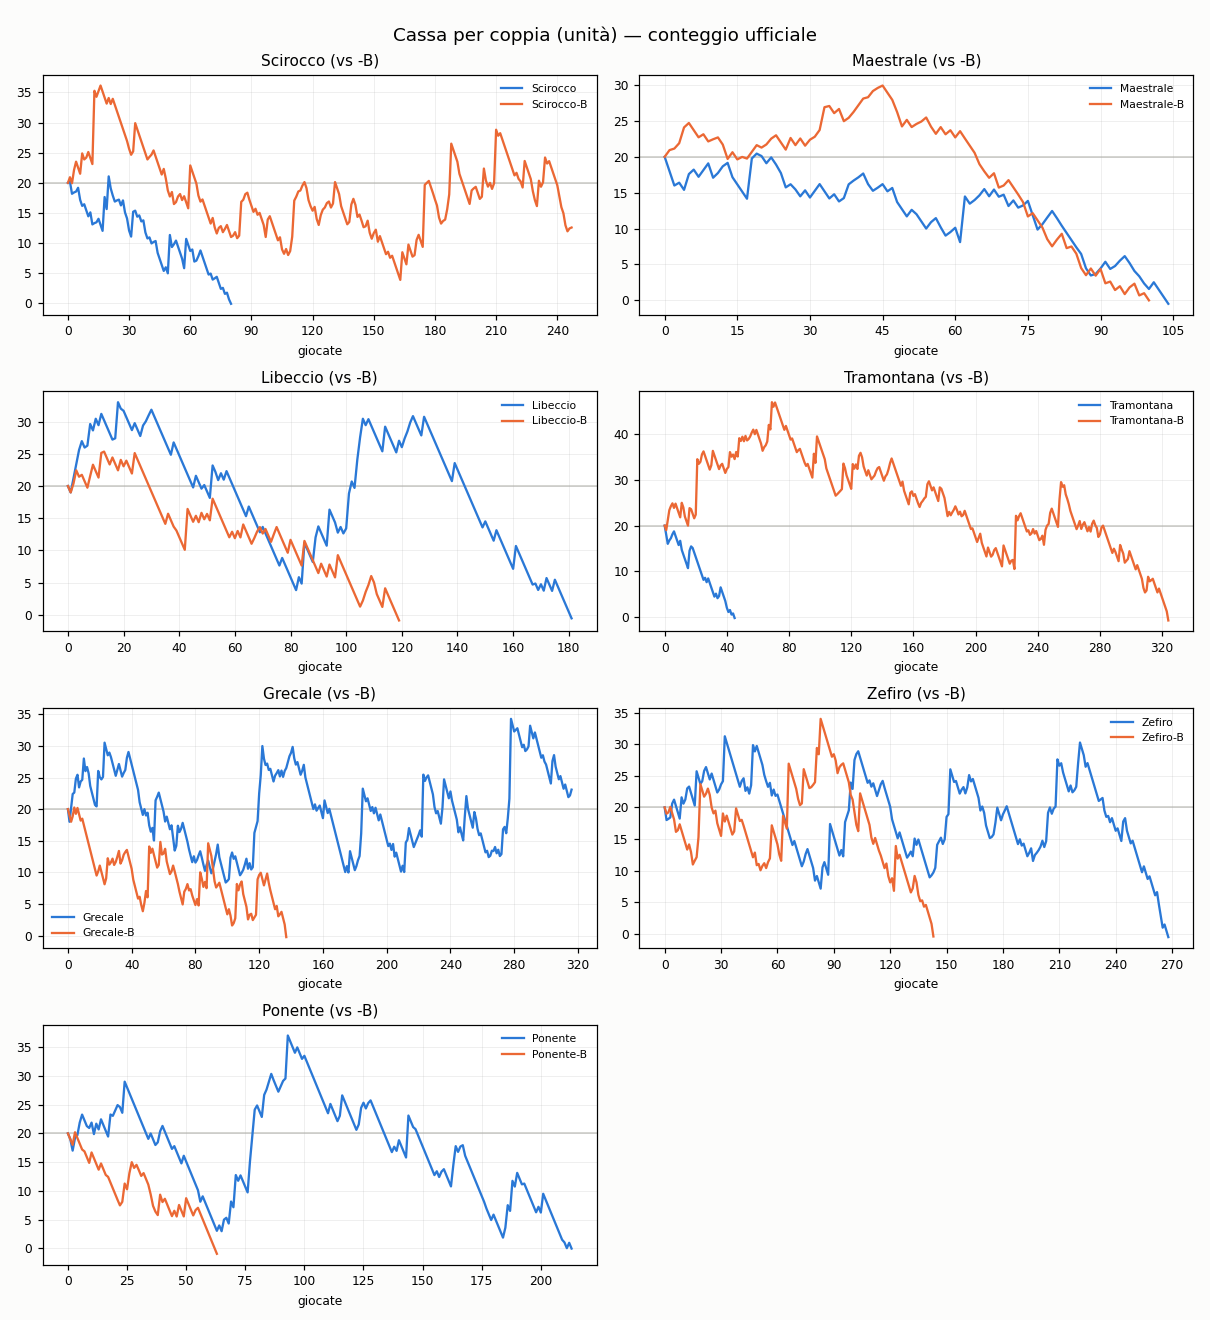
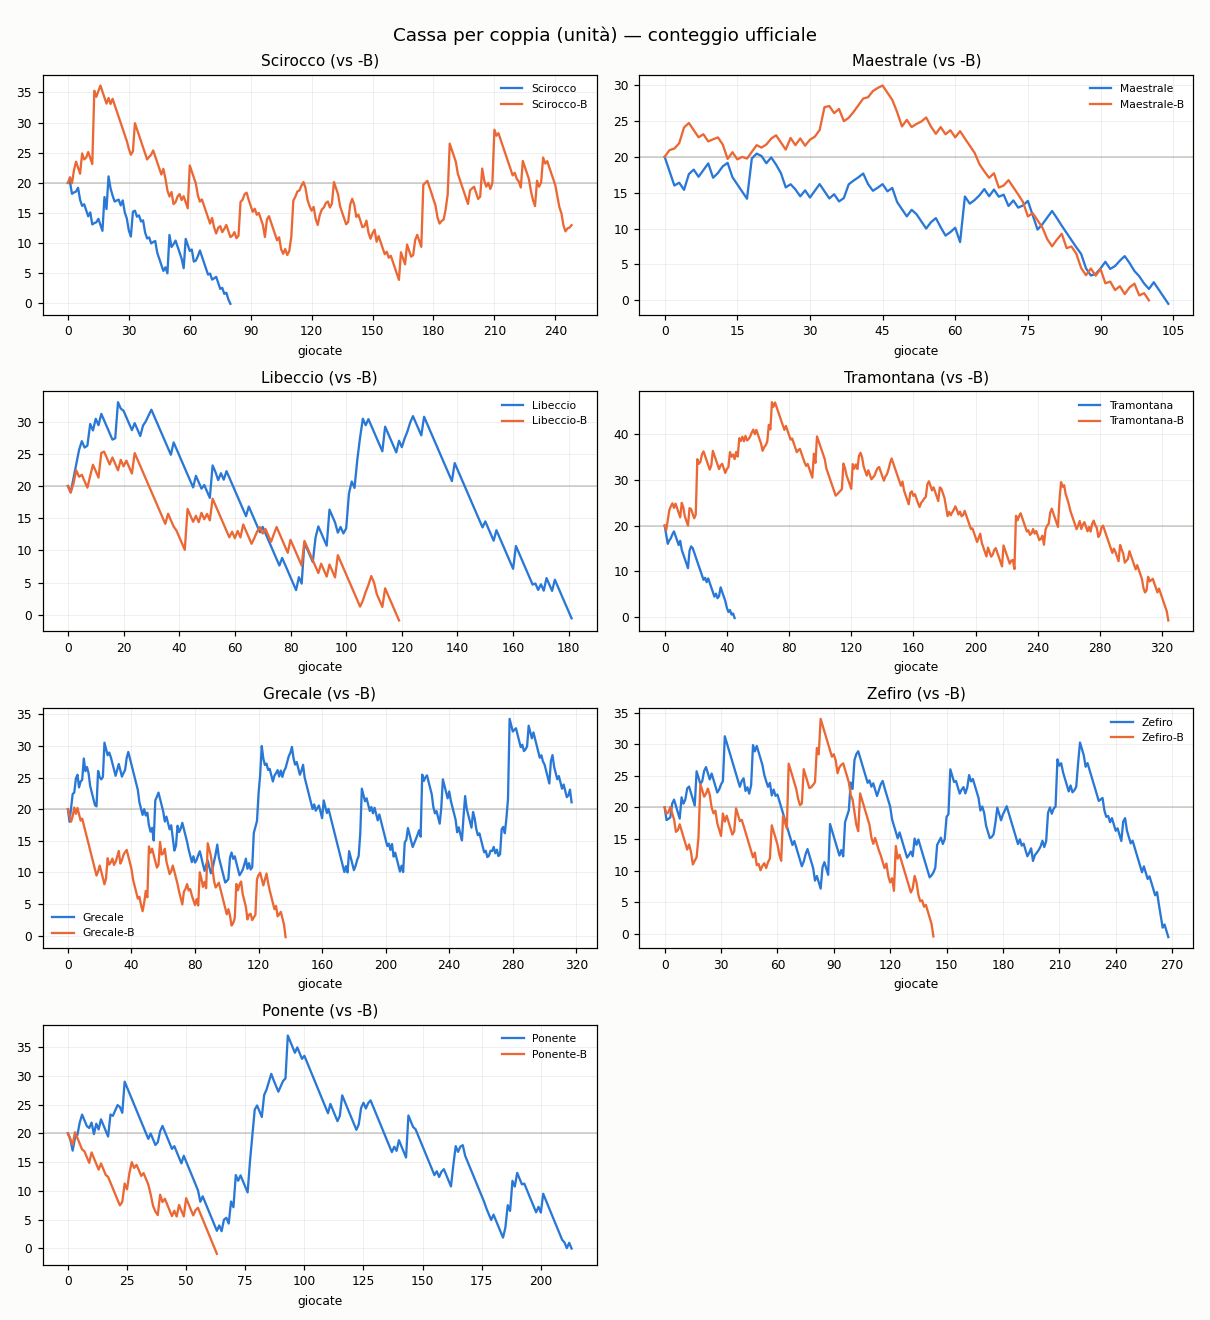
aggiornamento 2026-07-27 17:06 UTC

diff --git a/README.md b/README.md
@@ -37,9 +37,9 @@ scala in unità). Non indichiamo quale.
 
 ## Grafici
 
-![Coppie: dati completi vs ridotti](https://raw.githubusercontent.com/Kitem19/ippica-track-record/main/charts/equity_pairs.png?v=6897e54f)
+![Coppie: dati completi vs ridotti](https://raw.githubusercontent.com/Kitem19/ippica-track-record/main/charts/equity_pairs.png?v=344a78ff)
 
-![Delta per coppia](https://raw.githubusercontent.com/Kitem19/ippica-track-record/main/charts/coppie_delta.png?v=281647e3)
+![Delta per coppia](https://raw.githubusercontent.com/Kitem19/ippica-track-record/main/charts/coppie_delta.png?v=e621c618)
 
 ### Come leggere i grafici
 
@@ -56,11 +56,11 @@ scala in unità). Non indichiamo quale.
 
 _Poche giornate: numeri ancora rumorosi, si conclude a fine fase (31/7)._
 
-- **Scirocco**: dati ridotti avanti di 12,7u — qui gli extra non aiutano
+- **Scirocco**: dati ridotti avanti di 13,0u — qui gli extra non aiutano
 - **Maestrale**: in sostanziale pareggio — troppo presto per dire
 - **Libeccio**: in sostanziale pareggio — troppo presto per dire
 - **Tramontana**: in sostanziale pareggio — troppo presto per dire
-- **Grecale**: dati completi avanti di 23,3u
+- **Grecale**: dati completi avanti di 21,3u
 - **Zefiro**: in sostanziale pareggio — troppo presto per dire
 - **Ponente**: in sostanziale pareggio — troppo presto per dire
 
@@ -68,22 +68,22 @@ _Poche giornate: numeri ancora rumorosi, si conclude a fine fase (31/7)._
 
 | Sistema | Cassa (u) | P/L (u) | Selezioni | Escluse | Stato |
 |---|---|---|---|---|---|
-| Grecale | 23,1 | +3,1 | 316 | 4 | 🟢 |
-| Scirocco-B | 12,6 | -7,4 | 247 | 0 | 🟢 |
-| Maestrale-B | 0,0 | -20,0 | 100 | 248 | 🛑 |
-| Ponente | 0,0 | -20,0 | 213 | 34 | 🛑 |
-| Scirocco | 0,0 | -20,1 | 80 | 273 | 🛑 |
-| Grecale-B | 0,0 | -20,2 | 137 | 181 | 🛑 |
-| Tramontana | 0,0 | -20,3 | 45 | 314 | 🛑 |
-| Zefiro-B | 0,0 | -20,5 | 143 | 78 | 🛑 |
-| Maestrale | 0,0 | -20,5 | 104 | 267 | 🛑 |
-| Zefiro | 0,0 | -20,6 | 268 | 11 | 🛑 |
-| Libeccio | 0,0 | -20,6 | 181 | 175 | 🛑 |
-| Tramontana-B | 0,0 | -20,8 | 324 | 24 | 🛑 |
-| Libeccio-B | 0,0 | -20,9 | 119 | 189 | 🛑 |
-| Ponente-B | 0,0 | -21,0 | 63 | 93 | 🛑 |
+| Grecale | 21,1 | +1,1 | 317 | 4 | 🟢 |
+| Scirocco-B | 13,0 | -7,0 | 248 | 0 | 🟢 |
+| Maestrale-B | 0,0 | -20,0 | 100 | 249 | 🛑 |
+| Ponente | 0,0 | -20,0 | 213 | 35 | 🛑 |
+| Scirocco | 0,0 | -20,1 | 80 | 274 | 🛑 |
+| Grecale-B | 0,0 | -20,2 | 137 | 182 | 🛑 |
+| Tramontana | 0,0 | -20,3 | 45 | 315 | 🛑 |
+| Zefiro-B | 0,0 | -20,5 | 143 | 79 | 🛑 |
+| Maestrale | 0,0 | -20,5 | 104 | 268 | 🛑 |
+| Zefiro | 0,0 | -20,6 | 268 | 12 | 🛑 |
+| Libeccio | 0,0 | -20,6 | 181 | 176 | 🛑 |
+| Tramontana-B | 0,0 | -20,8 | 324 | 25 | 🛑 |
+| Libeccio-B | 0,0 | -20,9 | 119 | 190 | 🛑 |
+| Ponente-B | 0,0 | -21,0 | 63 | 94 | 🛑 |
 
-_Aggiornato: 27/07 19:01_
+_Aggiornato: 27/07 19:06_
 ---
 *Nessuna delle informazioni qui pubblicate costituisce consiglio di gioco.
 Il gioco può causare dipendenza — 18+.*
